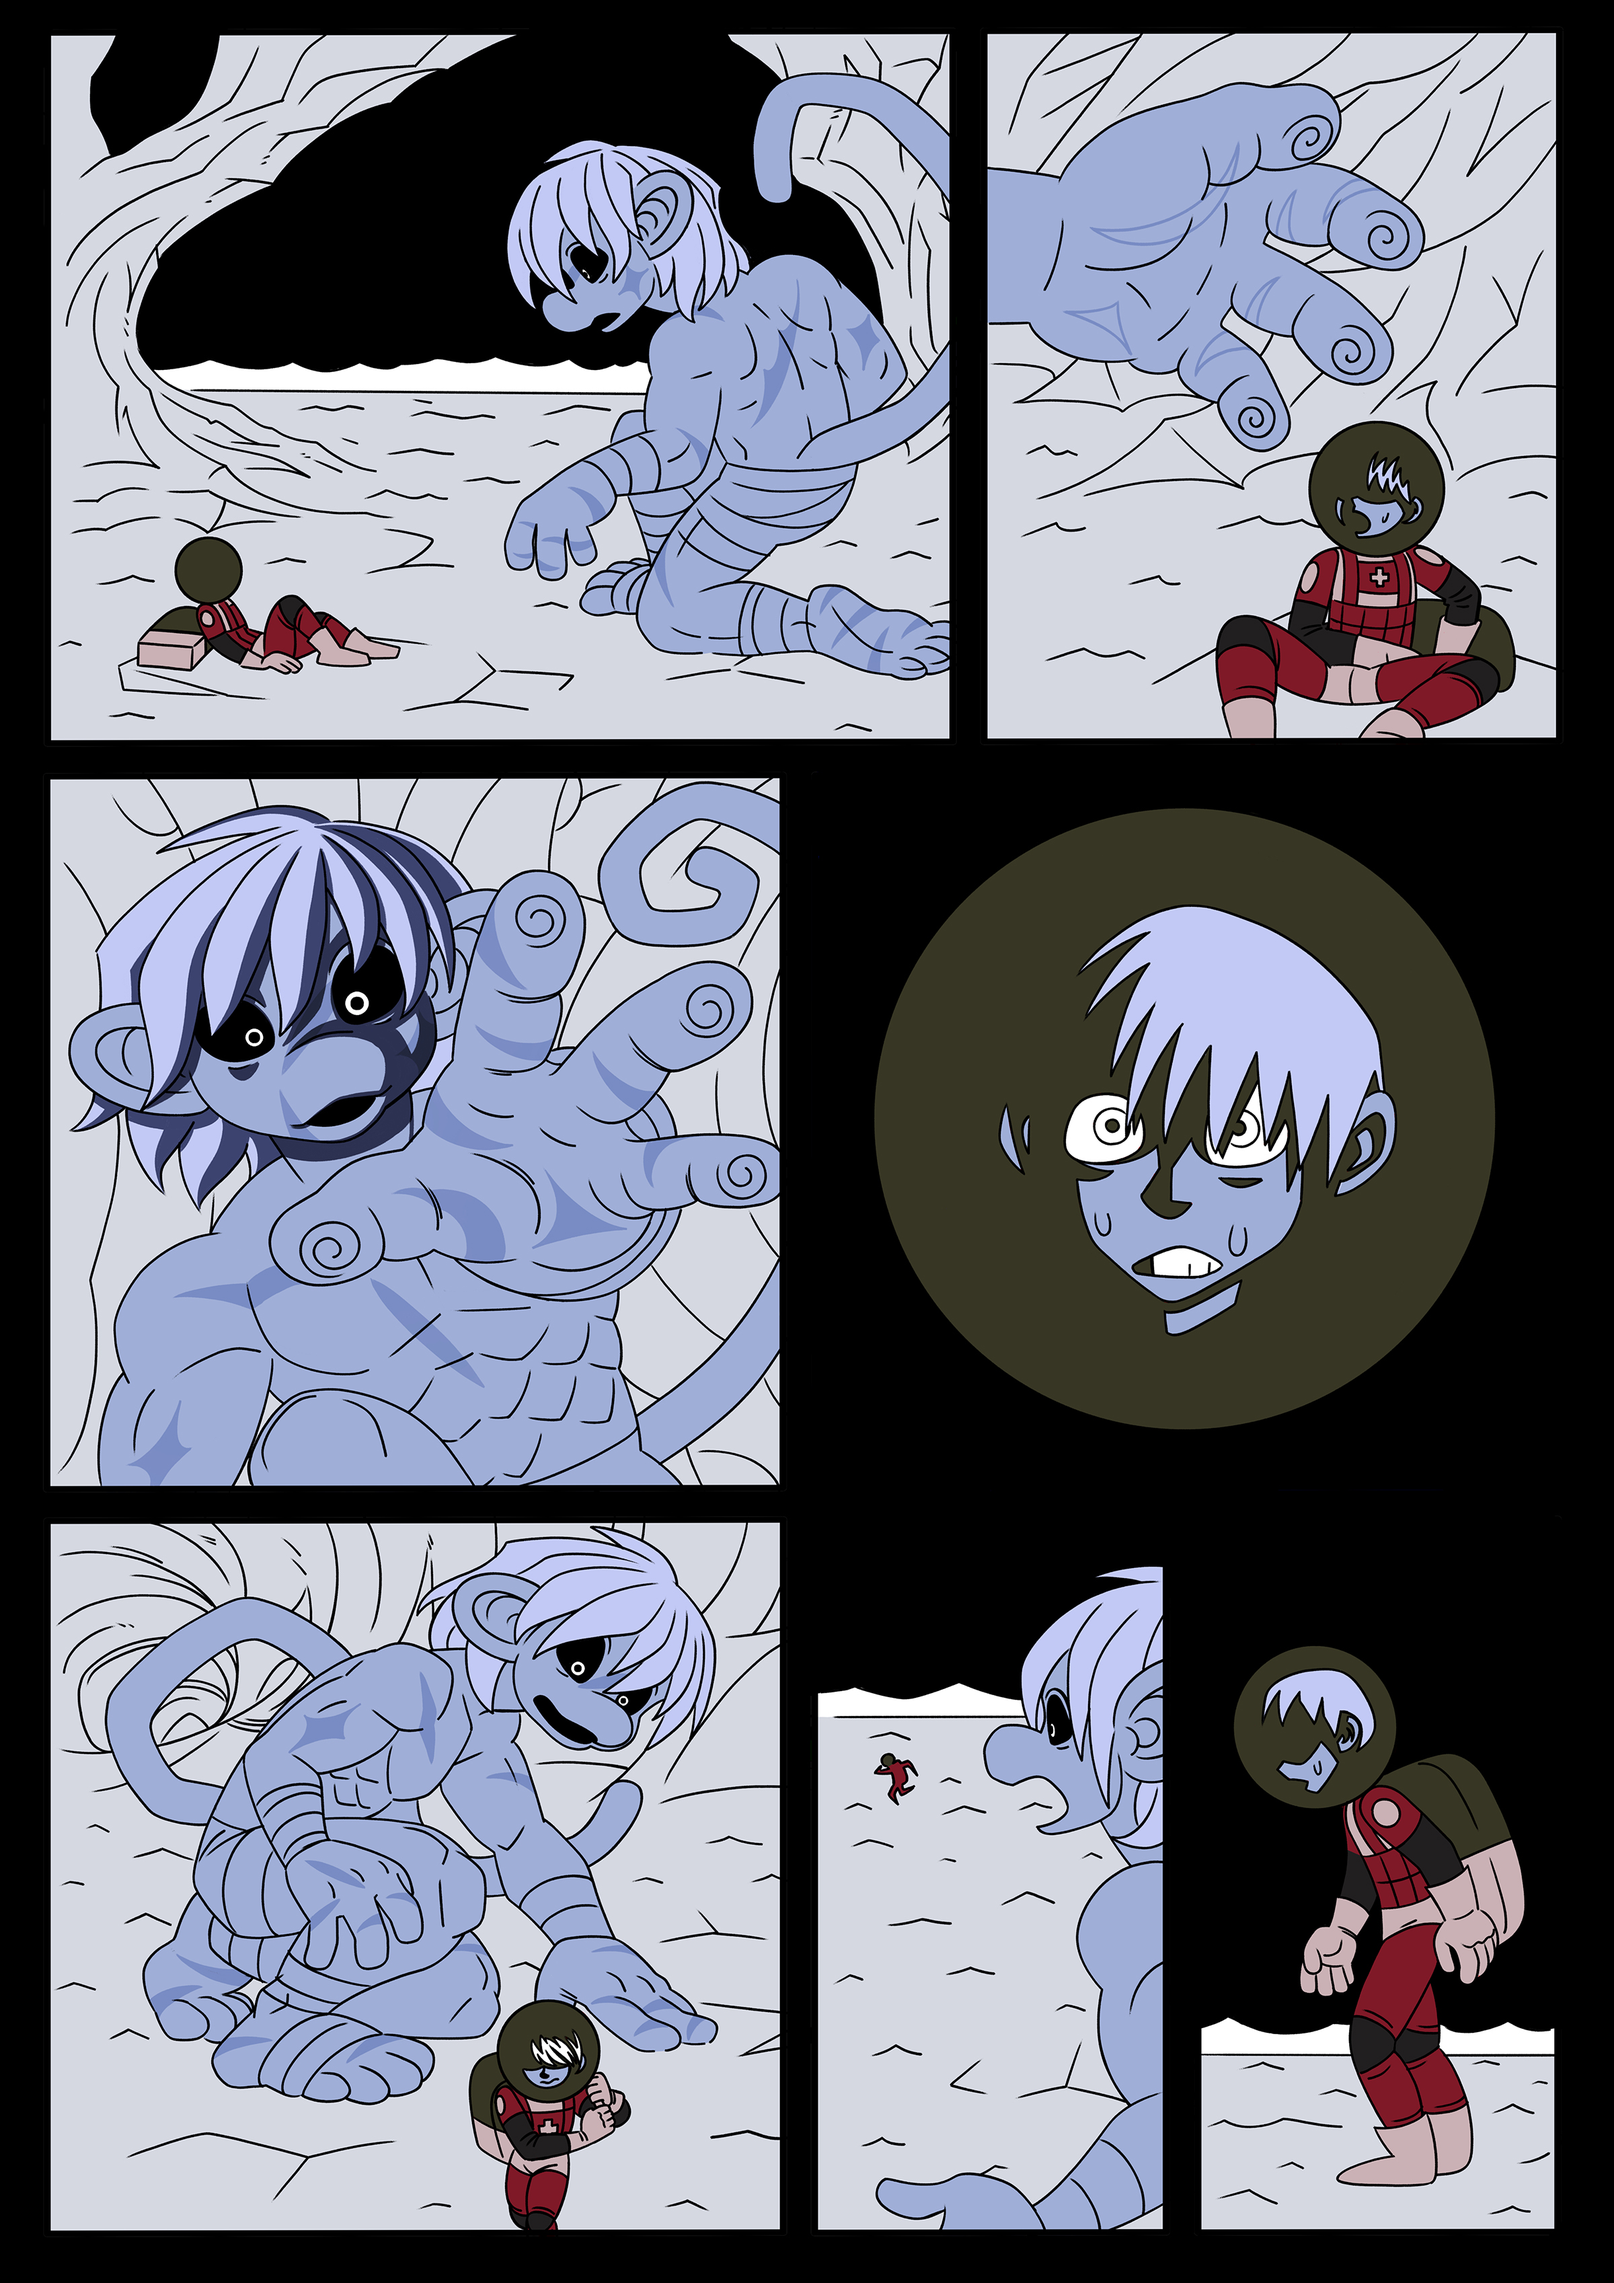
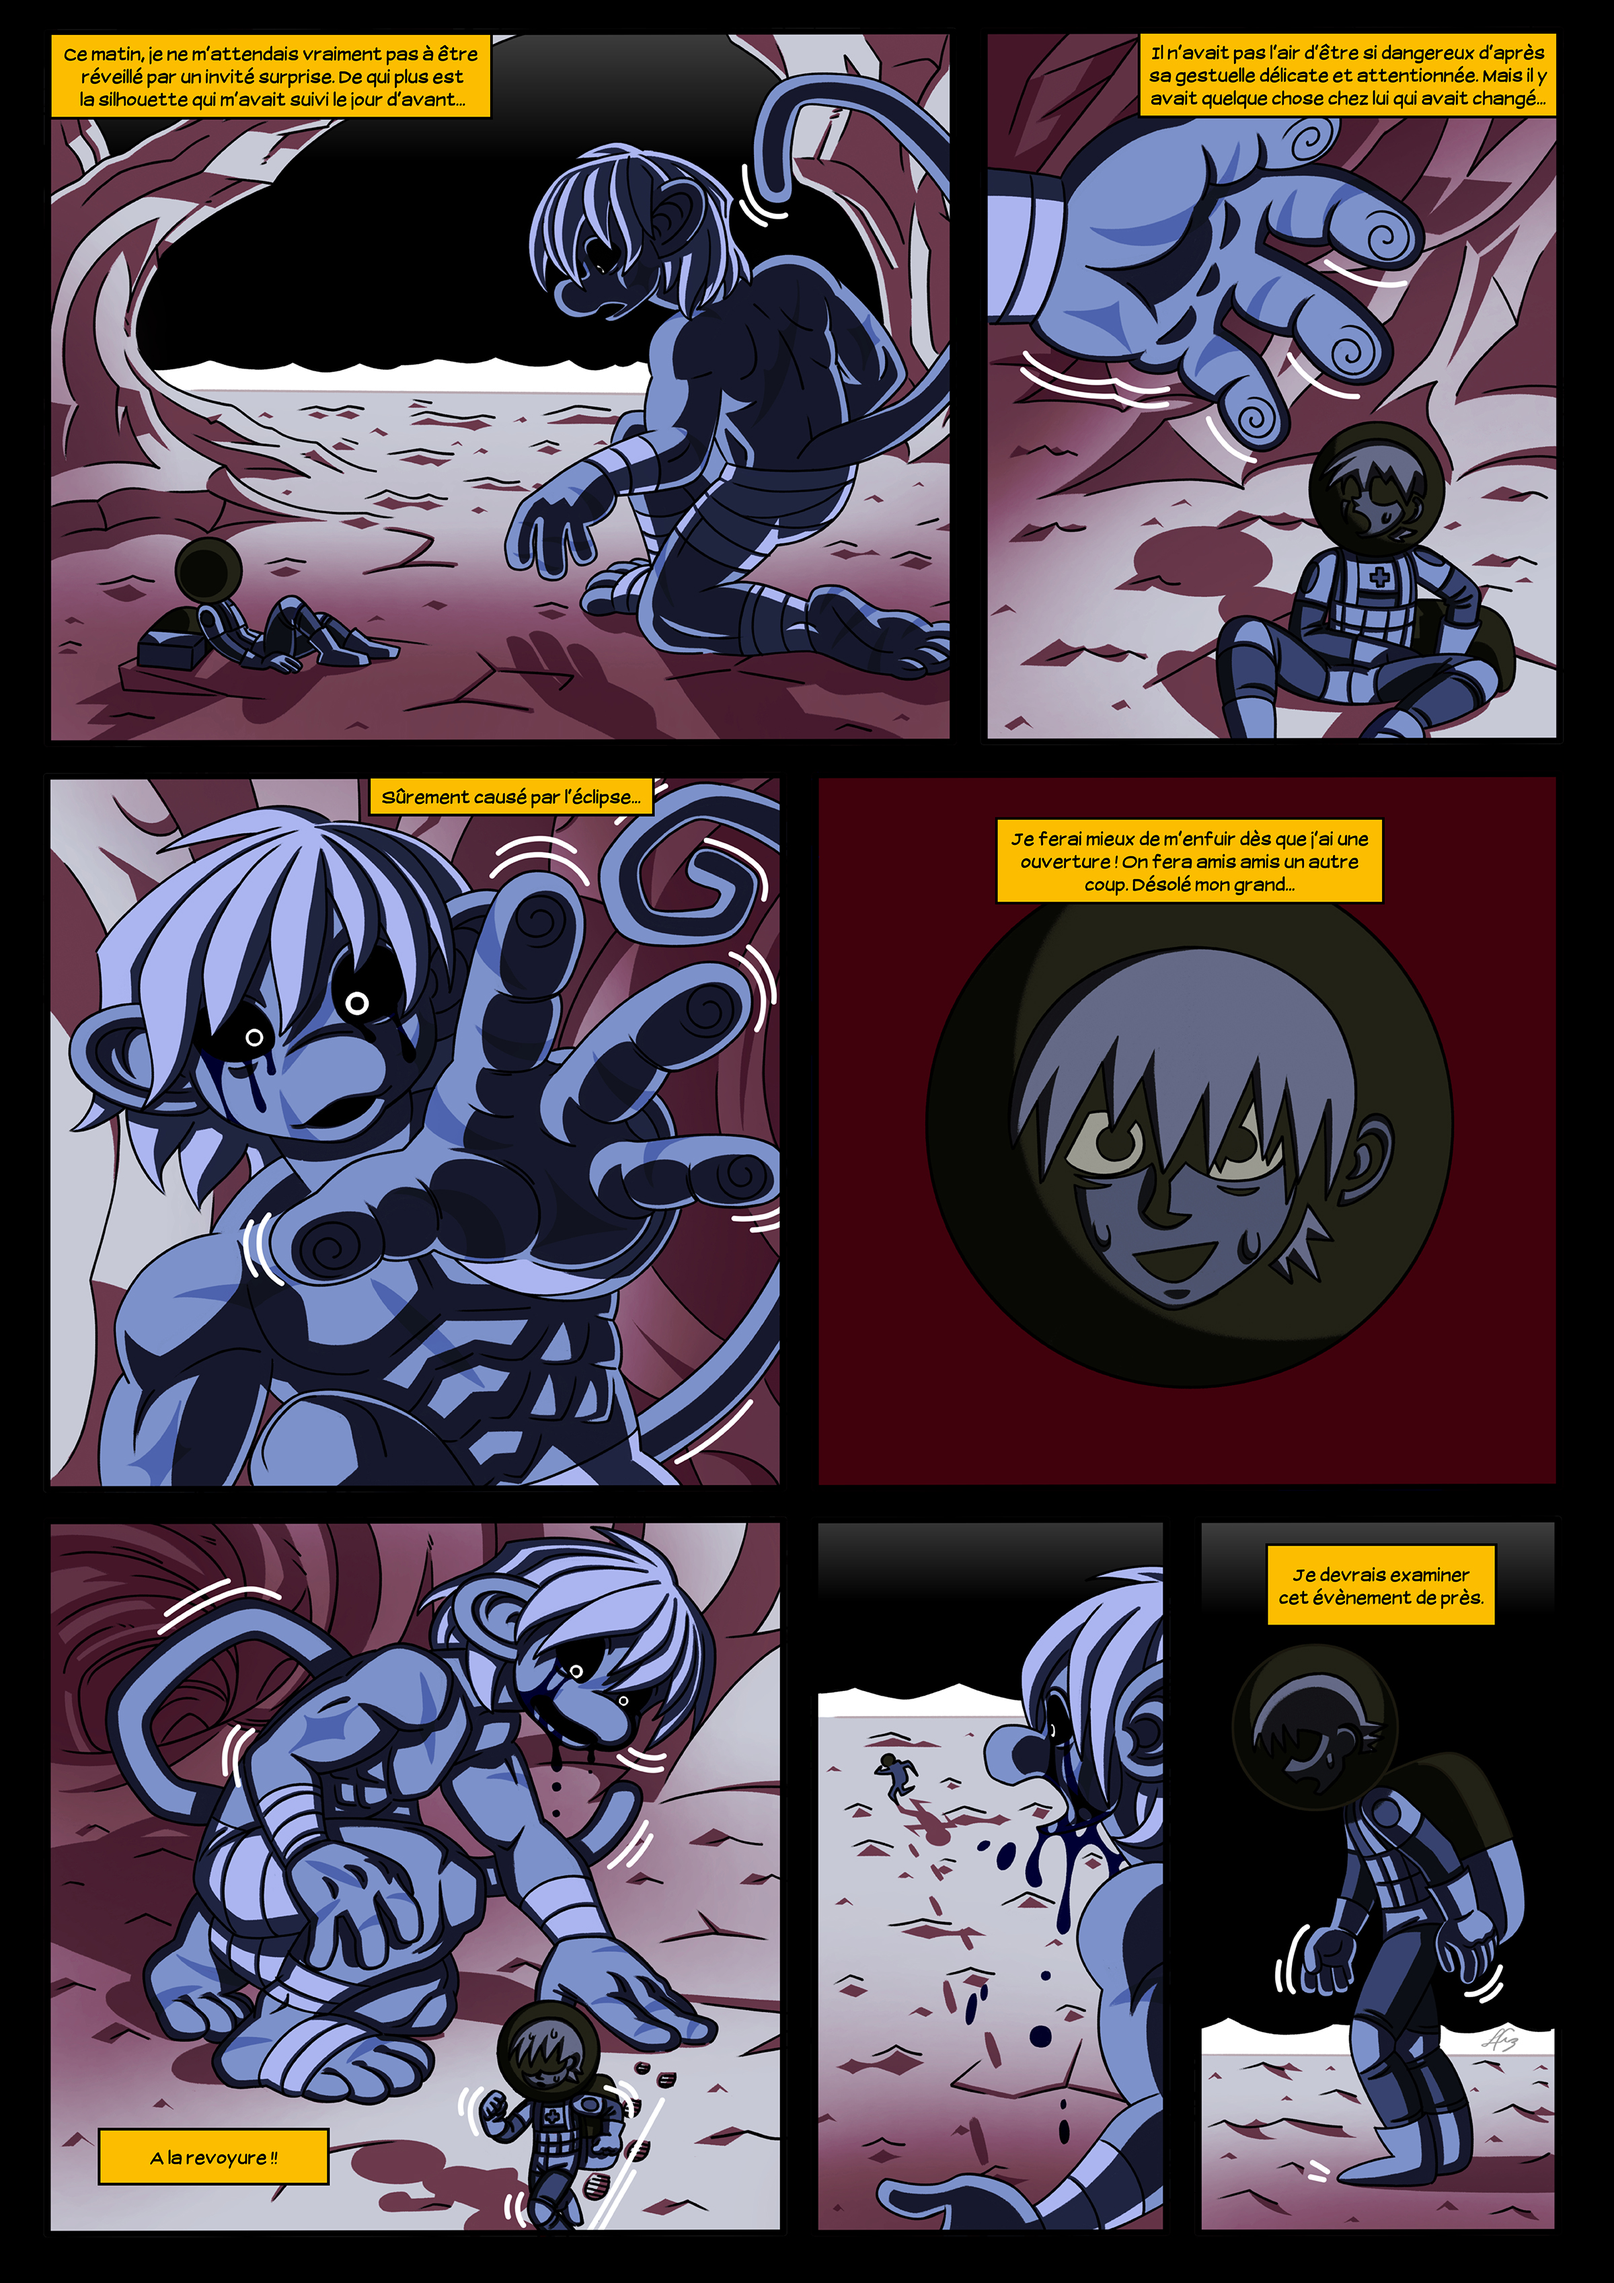
safe

diff --git a/index.html b/index.html
@@ -14,7 +14,7 @@
 				<h1>Lucas Freiholz</h1>
 			</div>
 			<div class="col">
-				<p>I believe that even today we can only tell a simple story without really interfering with gameplay. But in the future, I think it will almost be a requirement of all storytellers when they create games, how they can tell a more complex story without conflicting with the gameplay. Hideo Kojima</p>
+				<p>Bienvenu sur mon portefolio qui recueille mes projets artistique 2026 !! Voici un regroupement des projets personnels que j'ai crée depuis ces deux ans. Il regroupe du dessin sur sur Krita, Illustrator et de la 3D sur Blender. Mon apprentissage m'a permis de mieux comprendre le fonctionnement de la typo et de son utilisation.  Des jeux de couleurs. Et pour finir les cours qui m'ont permis de mettre ce site aux yeux du jour.  </p>
 			<p>Contact me to:</p>
 			<script type="text/javascript" language="javascript">
 <!--
@@ -89,8 +89,9 @@ document.write("<a href='mailto:"+link+"'>"+link+"</a>")
 		<h2>3D</h2>
 	
 		<a href="Images/tk12_big.jpg" data-lightbox="roadtrip"> <img class="vignette" src="Images/tk12_web.jpg" alt=""></a>
-		<a href="Images/tk13_big.jpg" data-lightbox="roadtrip"> <img class="vignette" src="Images/tk13_web.jpg" alt=""></a>
-		<a href="Images/tk14_big.jpg" data-lightbox="roadtrip"> <img class="vignette" src="Images/tk14_web.jpg" alt=""></a>
+		<a href="Images/tk16_big.jpg" data-lightbox="roadtrip"> <img class="vignette" src="Images/tk16_web.jpg" alt=""></a>
+		<a href="Images/tk17_big.jpg" data-lightbox="roadtrip"> <img class="vignette" src="Images/tk17_web.jpg" alt=""></a>
+		<a href="Images/tk18_big.jpg" data-lightbox="roadtrip"> <img class="vignette" src="Images/tk18_web.jpg" alt=""></a>
 
 	</section>
 	
